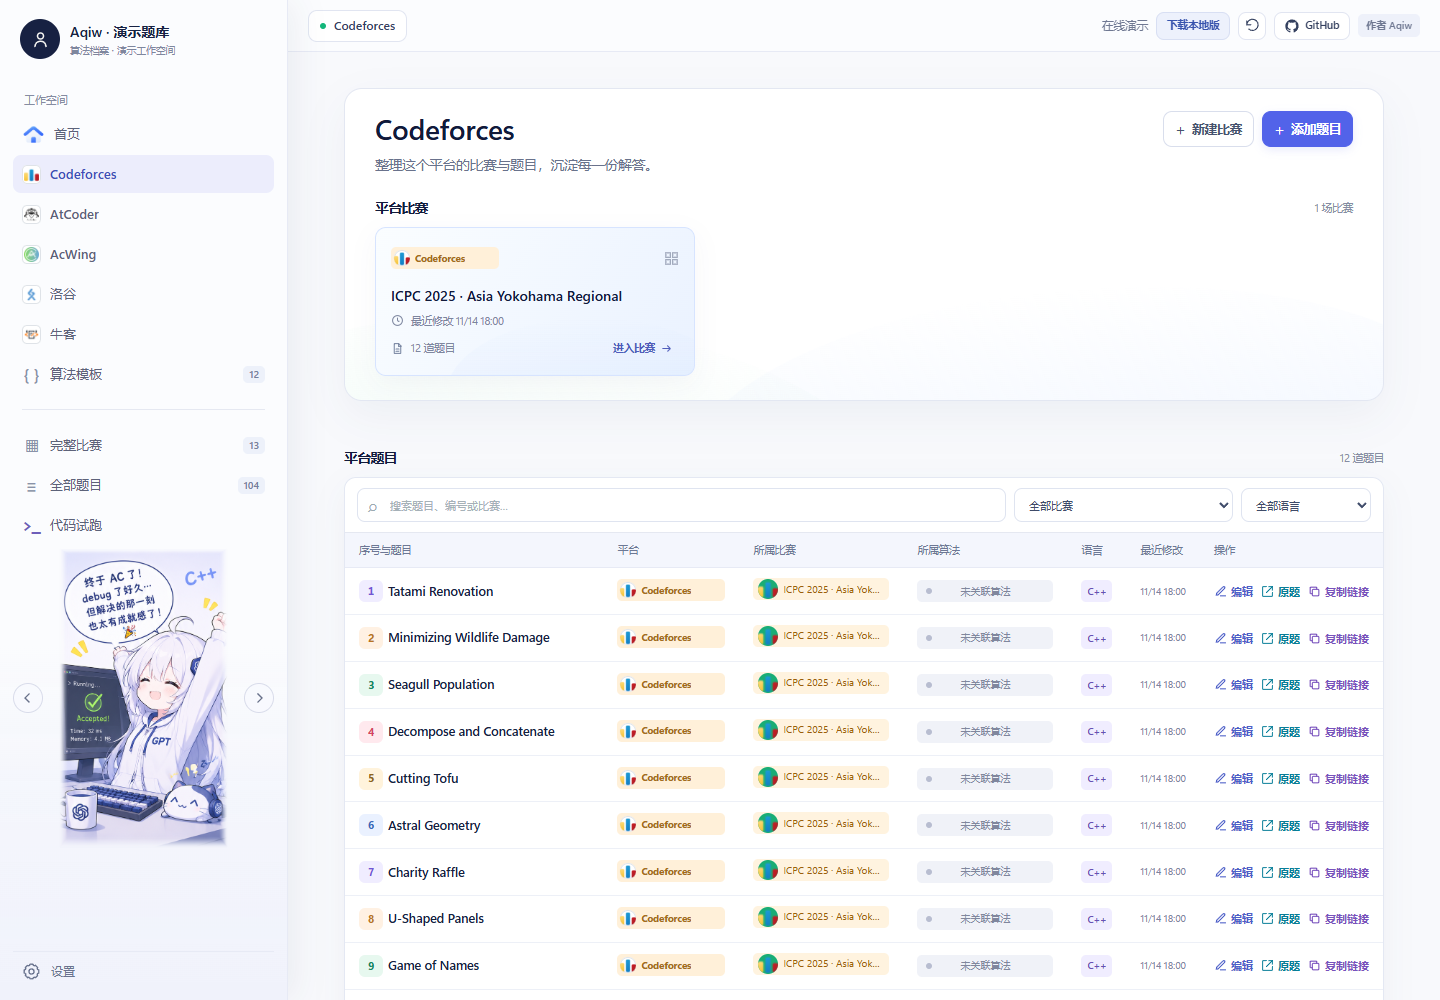
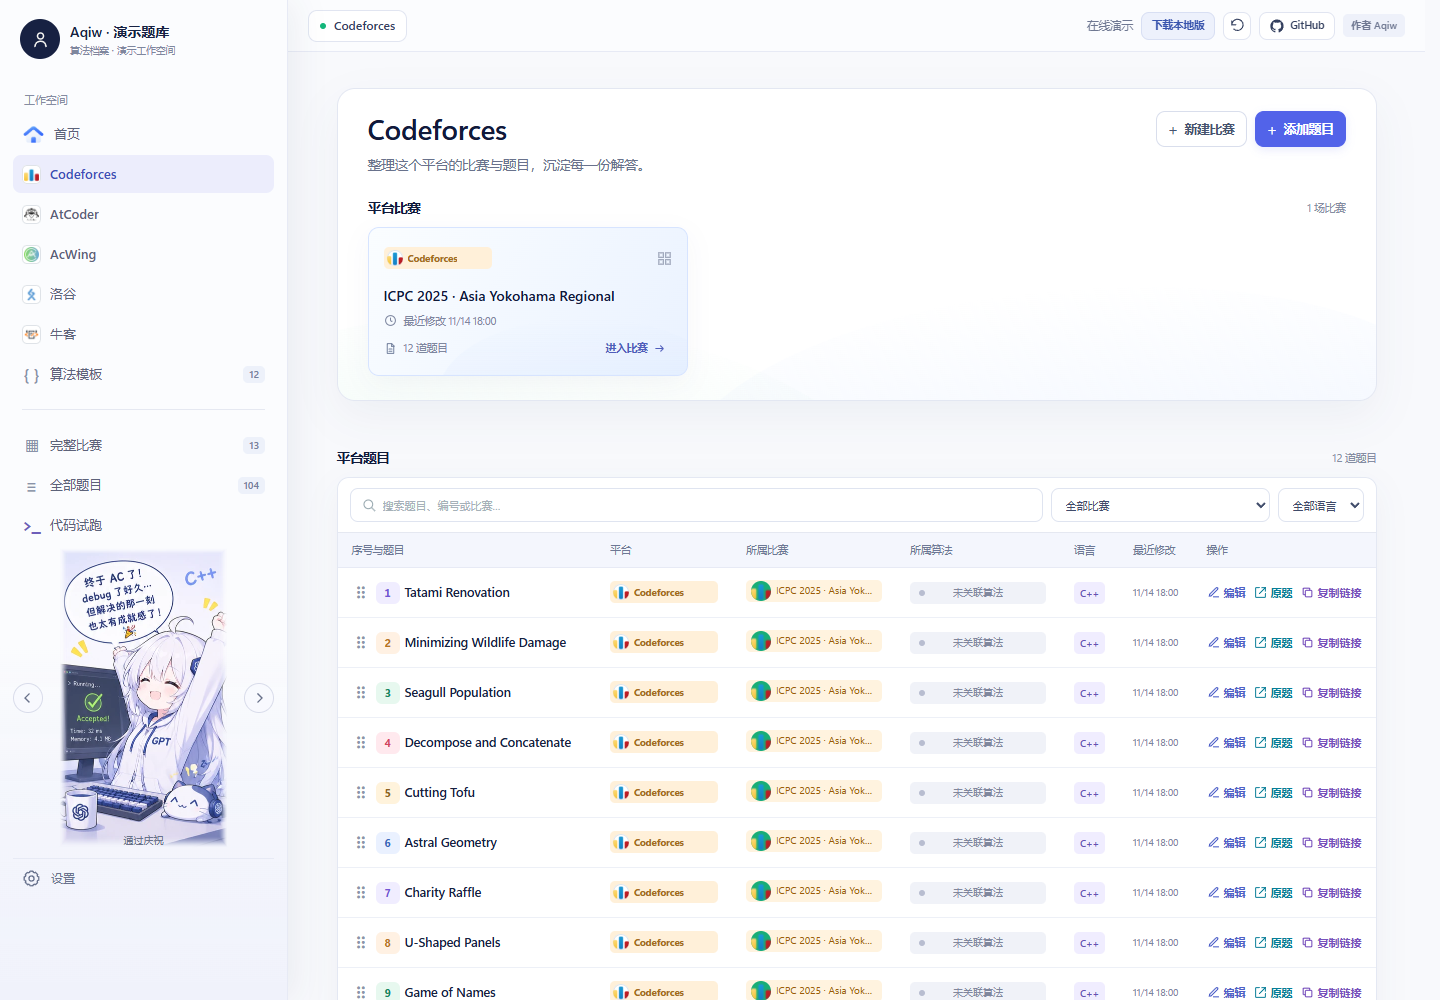
release: verify frontend and prepare AlgoArchive 2.2.10

diff --git a/scripts/capture-readme.js b/scripts/capture-readme.js
@@ -38,7 +38,7 @@ async function main() {
     assert.equal(await page.locator(".demo-notice").count(), 0);
     assert.equal(await page.locator('meta[name="csrf-token"]').getAttribute("content"), "isolated-online-demo");
     const art = page.locator(".sidebar-art img");
-    assert.deepEqual(await art.evaluate(img => ({width: img.naturalWidth, height: img.naturalHeight})), {width: 938, height: 1670});
+    assert.deepEqual(await art.evaluate(img => ({width: img.naturalWidth, height: img.naturalHeight})), {width: 337, height: 600}, "sidebar uses the optimized thumbnail");
     await page.locator("[data-open-sidebar-art]").click();
     const fullArt = page.locator(".sidebar-art-preview img");
     await page.waitForFunction(() => { const image = document.querySelector(".sidebar-art-preview img"); return image?.complete && image.naturalWidth === 938 && image.naturalHeight === 1670; });
@@ -83,7 +83,7 @@ async function main() {
     assert.equal(savedDraft.code, draft);
     assert.equal(savedDraft.code_locked, true);
     await page.locator("#save-problem").click();
-    await page.getByText("题目、代码与测试用例已保存，所有页面已同步。", { exact: true }).last().waitFor();
+    await page.getByText("题目、代码与测试用例已保存。", { exact: true }).last().waitFor();
     await page.locator("[data-select-code]").click();
     assert.ok(await area.evaluate(e => e.selectionEnd === e.value.length));
     await page.locator("[data-copy-code]").click();

diff --git a/web/index.html b/web/index.html
@@ -12,8 +12,8 @@
 <link rel="stylesheet" href="/style.css?v=20261030-platform-normalize">
 <link rel="stylesheet" href="/codex-theme.css?v=20261115-card-colors">
 <link rel="stylesheet" href="/mobile.css?v=20261030-platform-normalize">
-<link rel="stylesheet" href="/workspace-updates.css?v=20261117-local2210-r7">
-<script src="/app.js?v=20261117-local2210-r7" defer></script>
+<link rel="stylesheet" href="/workspace-updates.css?v=20261118-2210">
+<script src="/app.js?v=20261118-2210" defer></script>
 </head>
 <body>
 <div class="app-shell">

diff --git a/CHANGELOG.md b/CHANGELOG.md
@@ -1,31 +1,19 @@
 # Changelog
 
-## 2.2.10 - 2026-11-17（本地维护版本）
+## 2.2.10 - 2026-11-18
 
-- 本地资源修订 r7：平台短提示移回标签右侧，正常窗口显示四项建议并可继续滚动；头像旁文字不再跳转。限制侧栏原图按钮为图片实际区域，修正预览网格按图片固有高度撑开而裁切原图的问题。
-
-- 本地资源修订 r6：左上角头像可打开原图；插画预览支持左右按钮、方向键及横向滑动，预览状态与侧栏保存的选择独立；Escape 关闭图片预览。
-
-- 本地资源修订 r5：完整平台提示移至表单底部独立整行，保留聚焦时红字显示，避免长提示挤压标题并使两列输入框错位。
-
-- 本地资源修订 r4：搜索图标改用同一套 SVG 并垂直居中；打开设置不自动聚焦或选中用户名；平台聚焦提示改为“（可选择当前内置的平台，也可以自行输入其他的平台进行保存）”，窄窗口自动换行。
-
-- 本地资源修订 r3：平台建议列表在表单内展开并推开后续字段；比赛弹窗保持底部按钮可见，修正菜单收起导致单次点击丢失的问题。平台字段聚焦时在标题旁显示红色填写提示。
-- 代码区高度随视口调整，底部保留输入空间并改善状态栏；修复长平台名称撑宽筛选框、连续长说明撑出页面的问题。
-
-- 本地资源修订 r2：设置及其他弹窗打开时锁定背景页面和侧栏滚动，保留弹窗内部滚动与关闭后的页面位置；预留滚动条宽度，减少开关弹窗时的布局跳动。
-
-- 自有代码和自有文档采用 MIT 许可证；补充算法平台、CPH 兼容功能、素材权利及本地测试边界声明。第三方软件、商标和插画保留各自权利。
-- 保存后的比赛/算法关联计数与后端平台统计改为单次遍历；跨窗口刷新保留当前筛选、焦点和滚动位置。
-- 将重复的 v2.2.1 修复文档合并到测试报告，移除不再引用的旧版 AcWing 截图，保留有用途的脚本、测试及第三方许可证。当前跟踪文件的名称及多编码文本检查未发现内部测试个人姓名；未改写历史提交。
-
-- 平台工作区题目拥有独立、持久化的移动顺序，支持拖动和键盘操作；与全部题目、比赛、算法的顺序相互独立。新题稳定追加，冲突和成员变化有版本校验。
-- 状态读取在写入共享状态前校验请求代次，保存成功但列表刷新失败时保留已保存结果并提供明确重试；跨窗口更新保留编辑草稿。
-- 侧栏插画独立读取偏好，保留加载中的上一张图，提供失败反馈和重试；调整短窗口布局，保留设置入口。三张缩略图缩至约 47–52 KB，原始 PNG 仍用于放大预览。
-- 精确隐藏插画偏好 PUT 成功访问日志，保留失败及其他操作日志；版本化静态资源可缓存，HTML 与业务 API 保持不缓存。
-- 新增题目与比赛表单关闭历史自动填充建议，保留十个平台固定选择、自定义平台输入及当前关联预填；平台旁增加手动输入提示。
-- 算法卡片内置树节点、分支树、代码、搜索、网格、图层六种 SVG，依次对应蓝、青、绿、琥珀、玫红、紫；改名、筛选、拖动和重启不改变对应关系。
-- 数据库 schema 保持 10，新增排序写入现有 settings；备份恢复保留顺序并使旧窗口排序版本失效。本版本未推送、未发布 Release、未部署在线演示。
+- 修复设置及其他弹窗打开后背景和侧栏仍可滚动的问题；保留弹窗内部滚动和关闭后的页面位置。
+- 平台建议在表单内展开，推开后续字段；正常窗口显示四项并可继续滚动。标签右侧显示红色提示“可选择当前内置的平台，也可自行输入其他平台。”，比赛两列输入框保持对齐。
+- 修复代码区末行和状态栏遮挡、长文本横向溢出及短窗口布局；搜索图标垂直居中，打开设置不自动选中用户名。
+- 点击头像可查看原图，头像旁文字不再跳转。插画预览支持按钮、方向键和横向滑动，完整显示原图且不改变侧栏选择；切图按钮上方空白不再误触预览。
+- 算法卡片内置树节点、分支树、代码、搜索、网格、图层六种 SVG，依次对应六色；改名、筛选、拖动和重启不改变对应关系。
+- 五个平台工作区分别保存题目顺序，支持拖动和键盘操作；与全部题目、比赛和算法顺序独立，新增题目稳定追加。
+- 状态读取校验请求代次；保存成功但列表刷新失败时保留结果并可单独重试刷新。跨窗口更新保留草稿、筛选、焦点和滚动位置。
+- 插画独立读取偏好，保留加载中的上一张图并支持失败重试；缩略图约 47–52 KB，原始 PNG 保留供放大预览。
+- 保存后的关联计数与平台统计改为单次遍历；版本化静态资源可缓存，HTML 和业务 API 保持不缓存。
+- 自有代码与文档采用 MIT；补充平台、CPH 兼容功能和第三方素材声明，清理重复记录、无用截图及当前源码中的内部测试个人姓名，未改写 Git 历史。
+- 更新独立演示截图和发布说明，修正截图脚本的旧缩略图尺寸与保存提示断言；Windows CI 任一组合浏览器回归失败即停止。
+- 数据库 schema 保持 10；排序写入现有 settings，完整备份保留顺序并使旧窗口排序版本失效。
 
 ## 2.2.9 - 2026-11-15
 

diff --git a/TEST_REPORT.md b/TEST_REPORT.md
@@ -1,5 +1,18 @@
 # 交付验证记录
 
+## 2026-11-18 v2.2.10 发布前完整复验
+
+- 在 Windows 本机重新执行完整后端测试：193 项通过，222.820 秒，无跳过。前端语法检查通过；演示 12 项与关联计数 4 项，共 16 项通过。
+- Chrome 157.0.8103.51 执行 8 套隔离浏览器回归：编辑锁定、六色卡片、平台与插画、本地升级、后台同步、弹窗滚动、完整视图、图片预览全部通过。故障注入中的 500/503/409 响应属于预期断言，不代表正常流程错误。
+- 视图覆盖 1440×1000、1100×600、880×480、733×400、390×844；每种 17 个页面场景、6 个设置分页，以及平台菜单滚轮/键盘、导入、代码预览、算法表单和三类编辑器 81 行输入。未发现新的布局阻断问题。
+- 查看了实际截图，复核矮窗口表单内部滚动、代码末行与状态栏、窄屏设置和完整插画。真实 Chrome 扩展另复核已安装程序的比赛列表、四项平台菜单、标签右侧提示、设置焦点和原图切换；控制台无错误，预览后侧栏仍为原选择。
+- 图片专项验证头像原始字节、三种视口完整画布、左右按钮/方向键/鼠标横拖/合成触摸事件；预览写请求为 0。没有以合成事件代替实机触屏验收。
+- 公开截图脚本先复现过时断言：缩略图仍要求原图尺寸，保存通知仍要求旧文案；按实际缩略/原图分工和保存语义修正。正式截图继续使用隔离演示数据。
+- 组合浏览器 CI 增加逐项退出码检查，避免前面失败被最后一项成功掩盖；测试输出记录真实浏览器版本与执行路径。
+- 本轮没有改动业务数据库结构。测试写入只发生在隔离题库；安装前后数据摘要、正式构建清单与远程发布结果另记于本机交付验收记录。
+- 未验收 Windows 原生缩放菜单、新建 Windows 账户、干净虚拟机或本轮安装器向导覆盖升级；安装器仍未签名。此前 2.2.9 的安装器测试仅作历史证据。
+- 以下本地修订记录保留问题复现与修复过程；r4/r5/r6 的中间行为已由 r7 覆盖，以本节、当前更新日志及最终截图为准。此前“未发布”描述仅指当时的本地验收阶段。
+
 ## 2026-11-17 v2.2.10 本地升级源码验收
 
 - 本地资源修订 r7：实际页面测得预览图高约 1112px、容器高约 575px，资源已加载但网格隐式最小行高导致裁切；显式允许网格收缩后验证图片框完整落在画布内。新增侧栏切图按钮上方空白点击不打开预览、头像旁文字不跳转、正常窗口菜单高度对应四项等检查；完整短文案位于平台标签右侧，旧底部提示已移除。

diff --git a/.github/release-notes/2.2.10.md b/.github/release-notes/2.2.10.md
@@ -1,0 +1,26 @@
+# AlgoArchive 2.2.10
+
+## 前端视图与交互修复
+
+- 修复设置弹窗背景滚动、完整比赛表单重叠、代码末行遮挡和长文本溢出。
+- 平台菜单在表单内展开，正常窗口显示四项并可滚动；短提示位于“所属平台”右侧。
+- 搜索图标居中，设置不自动选中用户名；头像旁文字不再跳首页。
+- 头像可看原图；插画预览支持左右按钮、方向键、横向滑动，完整显示且不改变侧栏选择。
+- 算法模板内置六种形状，与六色稳定对应。
+
+## 保存可靠性与效率
+
+- 五个平台分别保存排序，与其他题目视图互不干扰。
+- 拒绝过期状态响应；保存成功后列表刷新失败可单独重试，跨窗口保留草稿与筛选。
+- 插画缩略图减小至约 47–52 KB，原始图片保留；关联计数与平台统计改为单次遍历。
+- 自有代码和文档采用 MIT，补充平台/CPH/第三方素材声明并清理冗余内容。
+
+## 验证与下载
+
+发布前本机完整复验：193 项后端测试、16 项前端单元测试及 8 套浏览器回归通过。视图覆盖五种尺寸、17 个页面场景与 6 个设置分页；实际 Chrome 页面另行复核。详见仓库 TEST_REPORT.md。
+
+- AlgoArchive-2.2.10-Windows-x64-Setup.exe：安装版。
+- AlgoArchive-2.2.10-Windows-x64.zip：便携版，完整解压后运行 AlgoArchive.exe。
+- 两个 .sha256 文件用于校验。GitHub 自动生成的源码包不包含 Python 运行环境。
+- 升级前建议备份题库；用户数据和配置保存在程序目录外，schema 保持 10。
+- 本轮未覆盖干净虚拟机、全新 Windows 账户、原生缩放菜单、实机触屏或安装器向导覆盖升级。安装器尚未签名。
